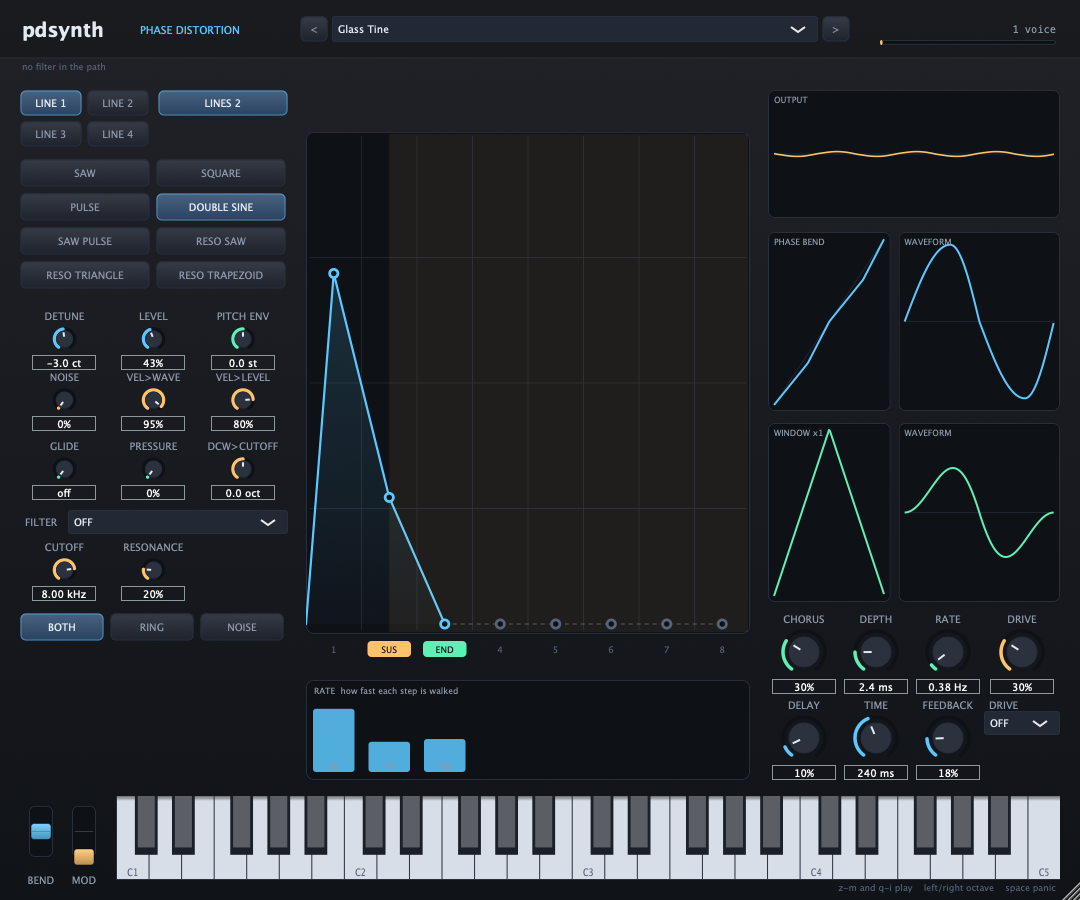
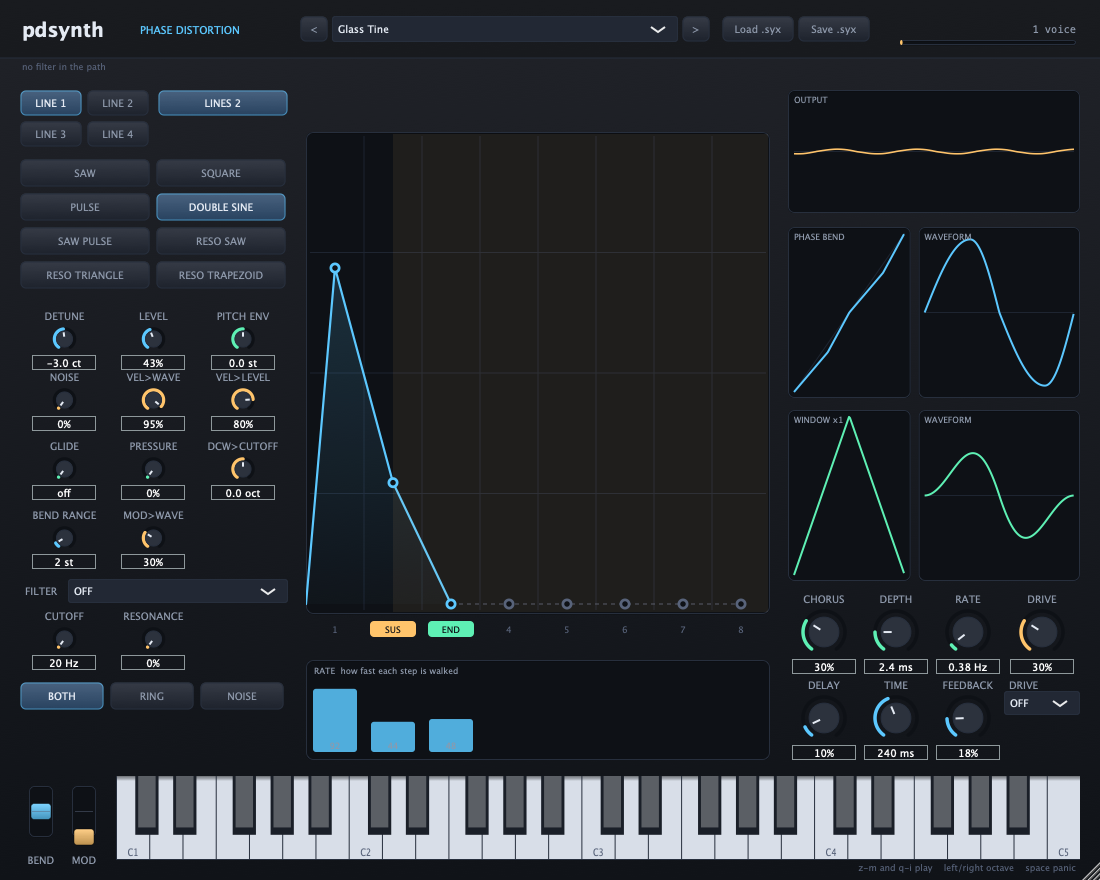
Ready 0.3.0
The version said 0.1.0 while the last tag said 0.2.0, so every host
that loaded the plugin was told the wrong number. It is 0.3.0 now and
the plugin reads it from the one place.

The README had gone stale in the way a README does: it claimed five
test suites when there are ten, and it listed the sysex librarian under
"still to come" a day after it shipped. It now describes the librarian
and the two ways it is checked, and "still to come" holds only what is
actually left, including the honest one, that none of this has touched
a real CZ.

The screenshot is redrawn with the file buttons and the two wheel
controls in it.

Also five British spellings in prose and comments, which American
English is the house rule.

diff --git a/src/pd_os.c b/src/pd_os.c
@@ -27,7 +27,7 @@ static double bessel_i0(double x)
  * A windowed sinc, not a biquad cascade.
  *
  * The first attempt used three biquads, a sixth order Butterworth at 21.6 kHz
- * running at 192 kHz. In normalised terms that is an extremely gentle slope:
+ * running at 192 kHz. In normalized terms that is an extremely gentle slope:
  * at 30 kHz it is barely down at all, so everything between the output's
  * Nyquist and the inner one survived the filter and folded when the extra
  * samples were thrown away. The measurement said so plainly, and no amount of
@@ -43,7 +43,7 @@ void pd_decimator_init(pd_decimator_t *d, double output_rate)
 {
     memset(d, 0, sizeof(*d));
     const double inner = output_rate * PD_OVERSAMPLE;
-    const double fc = 20000.0 / inner;          /* normalised corner */
+    const double fc = 20000.0 / inner;          /* normalized corner */
     const double beta = 8.6;                    /* about 85 dB of stopband */
     const int M = PD_DECIM_TAPS - 1;
     const double denom = bessel_i0(beta);

diff --git a/tests/test_voice.c b/tests/test_voice.c
@@ -97,9 +97,9 @@ int main(void)
         play(&p, 57, 1.0, 0.17, 0);
         double f0 = pd_note_to_hz(57);
         /* the beat between them puts energy either side of the nominal pitch */
-        double below = mag_at(f0 * 0.996), above = mag_at(f0 * 1.004), centre = mag_at(f0);
-        ok(below > centre * 0.5 && above > centre * 0.5,
-           "detuned lines should spread the fundamental (%.4f %.4f %.4f)", below, centre, above);
+        double below = mag_at(f0 * 0.996), above = mag_at(f0 * 1.004), center = mag_at(f0);
+        ok(below > center * 0.5 && above > center * 0.5,
+           "detuned lines should spread the fundamental (%.4f %.4f %.4f)", below, center, above);
         printf("   the fundamental spreads either side\n");
     }
 

diff --git a/tests/test_extras.c b/tests/test_extras.c
@@ -208,7 +208,7 @@ int main(void)
         double bp_low = 0, bp_band = 0;
         for (int h = 1; h <= 2; h++) bp_low  += mag(bufL, len / 3, 8192, f0 * h);
         for (int h = 5; h <= 7; h++) bp_band += mag(bufL, len / 3, 8192, f0 * h);
-        ok(bp_band > bp_low, "band pass should favour its band (%.5f vs %.5f)", bp_band, bp_low);
+        ok(bp_band > bp_low, "band pass should favor its band (%.5f vs %.5f)", bp_band, bp_low);
 
         p.filter_mode = PD_FILTER_NOTCH; p.filter_cutoff_hz = f0 * 6.0;
         p.filter_resonance = 0.75;

diff --git a/src/pd_voice.c b/src/pd_voice.c
@@ -228,7 +228,7 @@ void pd_voice_next_inner(pd_voice_t *v, double *left, double *right)
     double a, b;
     voice_inner_lines(v, &a, &b);
 
-    /* Equal gain either side of centre. A CZ is a mono box, but two lines
+    /* Equal gain either side of center. A CZ is a mono box, but two lines
      * detuned against each other are begging to be placed apart, and a synth
      * that arrives in one spot in the middle sounds smaller than it is. */
     const double s = v->patch->spread;

diff --git a/tests/test_osc.c b/tests/test_osc.c
@@ -121,7 +121,7 @@ int main(void)
         double h1 = harmonic(buf, 1);
         double odd = harmonic(buf, 3) / h1 + harmonic(buf, 5) / h1;
         double even = harmonic(buf, 2) / h1 + harmonic(buf, 4) / h1;
-        ok(odd > even, "square should favour odd harmonics (odd %.3f, even %.3f)", odd, even);
+        ok(odd > even, "square should favor odd harmonics (odd %.3f, even %.3f)", odd, even);
         printf("   odd %.2f vs even %.2f\n", odd, even);
     }
 

diff --git a/README.md b/README.md
@@ -34,7 +34,7 @@ The standalone publishes a MIDI port called **pdsynth**, so a DAW, a keyboard
 or a script can reach it without opening a settings dialog. The computer keys
 play two octaves, `z` to `m` and `q` to `i`, with the arrows shifting octave and
 space for panic. Bend and mod wheels sit at the left of the keyboard; bend
-springs back to centre when released, as a real one does.
+springs back to center when released, as a real one does.
 
 ## What is in it
 
@@ -91,13 +91,31 @@ would follow the code home.
 **Twenty presets**, original designs built from published technique. No
 parameter list is copied from anyone and Casio's ROM data is not here.
 
+**A librarian.** It reads and writes Casio CZ voice dumps, the CZ-101/1000/5000
+shape that every CZ can read, so patches made on the hardware open here and
+patches made here can be sent back. Two buttons beside the bank.
+
+The rule it follows is that a translation never fails silently. pdsynth has
+four lines where a CZ has two, a filter the hardware never had, and it hears
+velocity and pressure that a CZ-101 cannot. So every load and every save comes
+back with a written account of what could not make the trip, naming the control
+each time and saying what will happen on the machine. It does not refuse and it
+does not quietly round.
+
+It also keeps what it does not understand. A voice loaded and saved again is
+byte for byte the file that arrived, including the vibrato section, the key
+follow, the CZ's pairing of two waveforms on a line, and the per step falling
+bit, which real dumps show is stored rather than worked out from the levels. A
+librarian that rewrites bytes it does not model corrupts a collection quietly,
+one save at a time.
+
 ## Testing
 
 ```
 ctest --test-dir build
 ```
 
-Five suites. The oscillator is judged by its spectrum, because that is the only
+Ten suites. The oscillator is judged by its spectrum, because that is the only
 thing about an oscillator a listener can hear. The envelope is judged by where
 it is at a given moment, because one that reaches the right levels at the wrong
 time is a different instrument. The voice is judged on pitch, detuning,
@@ -113,14 +131,29 @@ work rather than from taste: a struck bar rings and then stops and dulls as it
 goes, brass brightens after the note starts rather than before, an organ is a
 switch and not a shape. It found eleven real faults the first time it ran.
 
+The librarian is checked twice over, because there are two ways for it to be
+wrong. `pd_sysexcheck` takes real CZ dumps through the C translator and reports
+how much of each one survived, by section. `pd_syxplugcheck` takes the same
+dumps out to the plugin's parameters and back, which is the trip a player's
+patch actually makes and which the C tests cannot see: parameters are floats
+with ranges, and a rate of 73 coming back as 72 would quietly alter every patch
+anybody saved. That second check is why the detune, the end step and the sign
+of a zero detune were fixed. Both run on every push.
+
+The suites are also checked by breaking the code on purpose and seeing whether
+they notice. That is how the sysex tests grew: six deliberate faults went
+straight through the first run, all of them changes applied to both the encoder
+and the decoder, which a round trip cannot see by construction.
+
 ## Still to come
 
-CV and gate, so it can sit in a modular rig, which needs a DC coupled interface
-to be worth anything. A sysex import that knows what a given piece of hardware
-supports and turns off what it does not, and an export that declines to send
-parameters the target cannot receive; that one waits on having the byte layout
-verified rather than guessed, because a librarian that writes plausible
-nonsense to a real machine is worse than none.
+CV and gate are in and checked on every push, but the last mile needs a DC
+coupled interface before the voltages mean anything outside a test.
+
+And the honest one: none of the librarian has ever touched a real CZ. It is
+verified against twenty real patch files, which is not the same as a machine.
+If you own a CZ, or the recent hardware reissue, a dump out of it and a write
+back into it would be worth more than everything above.
 
 ## Thanks
 
